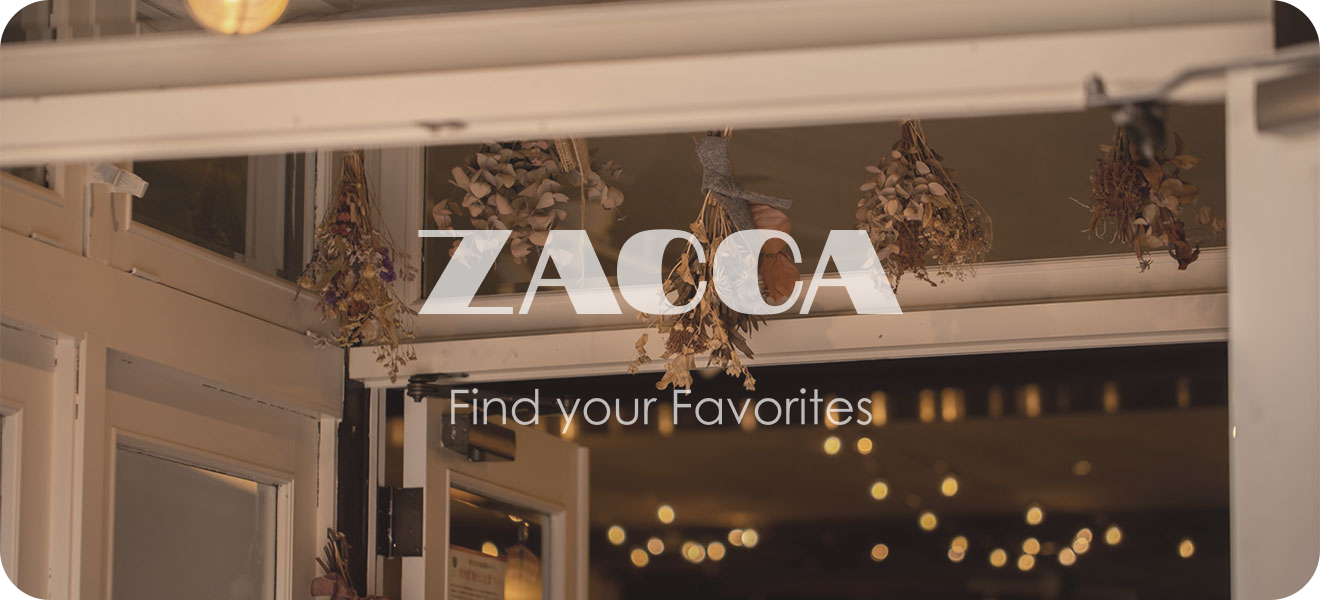
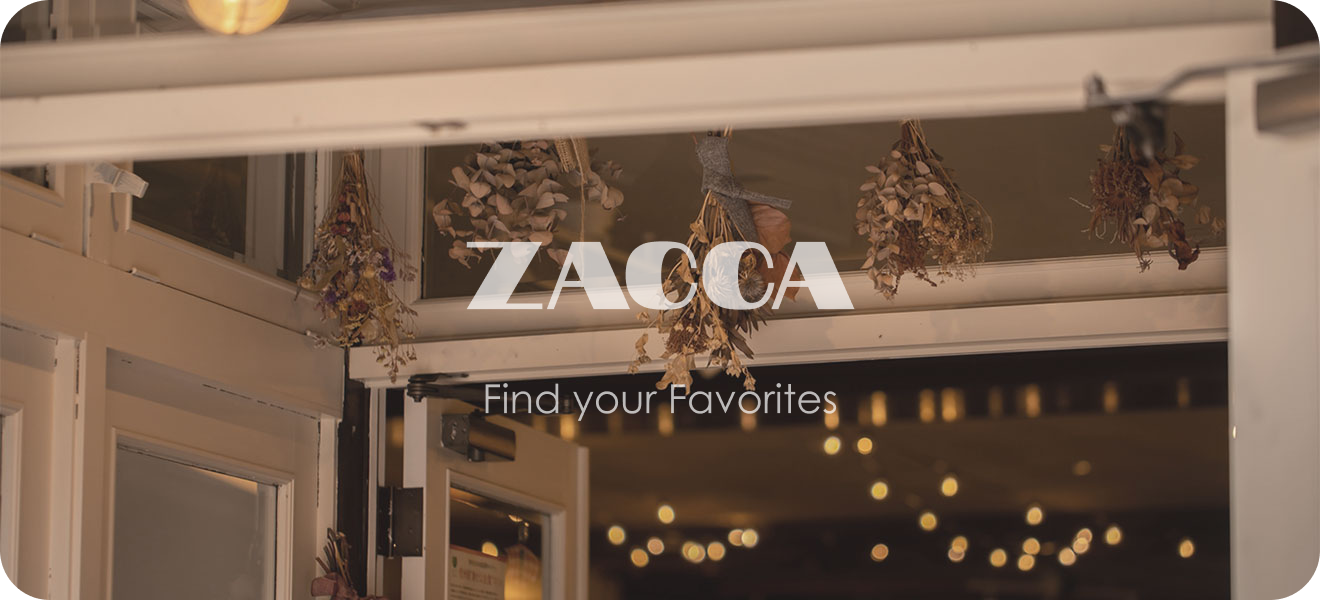
complete footer-pc update MV-pc

Changed region(s): [[0.3106, 0.36, 0.6833, 0.54], [0.3417, 0.63, 0.6833, 0.72]]

diff --git a/index.html b/index.html
@@ -136,33 +136,35 @@
     
     <footer class="footer">
         <div class="footer-content">
-            <div class="footer-left">
-                <div class="footer-logo">
-                    <img src="./img/Logo-footer.svg" alt="Logo">
-                    <p>Find your Favorites</p>
+            <div class="footer-upper">
+                <div class="footer-left">
+                    <div class="footer-logo">
+                        <img src="./img/Logo-footer.svg" alt="Logo">
+                        <p>Find your Favorites</p>
+                    </div>
+                    <nav class="sns">   
+                        <ul class="nav-sns">
+                            <li><a href=""><i class="fa-brands fa-instagram"></i></a></li>
+                            <li><a href=""><img class="sns-x" src="./img/Xsvg.svg" alt=""></a></li>
+                        </ul>
+                    </nav>
                 </div>
-                <nav class="sns">   
-                    <ul class="nav-sns">
-                        <li><a href=""><i class="fa-brands fa-instagram"></i></a></li>
-                        <li><a href=""><img class="sns-x" src="./img/Xsvg.svg" alt=""></a></li>
-                    </ul>
-                </nav>
-            </div>
-        
+            
 
-            <div class="footer-right">
-                <ul class="footer-right-1">
-                    <li><a href="">ホーム</a></li>
-                    <li><a href="">マイページ</a></li>
-                    <li><a href="">商品一覧</a></li>
-                    <li><a href="">お知らせ</a></li>
-                </ul>
-                <ul class="footer-right-2">
-                    <li><a href="">お買い物ガイド</a></li>
-                    <li><a href="">お問い合わせ</a></li>
-                    <li><a href="">会社概要</a></li>
-                    <li><a href="">Privacy Polisy</a></li>
-                </ul>
+                <div class="footer-right">
+                    <ul class="footer-right-1">
+                        <li><a href="">ホーム</a></li>
+                        <li><a href="">マイページ</a></li>
+                        <li><a href="">商品一覧</a></li>
+                        <li><a href="">お知らせ</a></li>
+                    </ul>
+                    <ul class="footer-right-2">
+                        <li><a href="">お買い物ガイド</a></li>
+                        <li><a href="">お問い合わせ</a></li>
+                        <li><a href="">会社概要</a></li>
+                        <li><a href="">Privacy Polisy</a></li>
+                    </ul>
+                </div>
             </div>
 
             <div class="copy">

diff --git a/css/pc.css b/css/pc.css
@@ -69,6 +69,89 @@
         width:98%;
     }
 
+    /* Main */
+
+    .MV {
+        margin-top:160px;
+    }
+
+    /* Footer */
+    .footer-upper {
+        display:flex;
+        justify-content: space-between;
+        width:100%;
+        margin-bottom:48px;
+    }
+
+    .footer-content {
+        padding: 72px 0 48px;
+        width:84%;
+        margin:auto;
+    }
+
+    .footer-left {
+        text-align:left;
+    }
+
+    .footer-logo img {
+        height:32px;
+    }
+
+    .footer-logo p{
+        font-size:18px;
+        margin-top:12px;
+    }
+
+    .footer-logo {
+        margin-bottom:32px;
+    }
+
+    .sns i{
+        font-size:32px;
+    }
+
+    .sns img {
+        height: 30px;
+    }
+
+    .nav-sns {
+        margin-left:0;
+    }
+
+    .nav-sns li+li {
+        margin-left: 20px;
+    }
+
+    .footer-right {
+        margin:0;
+    }
+
+    .footer-right a{
+        font-size:18px;
+    }
+
+    .footer-right li+li {
+        margin-top:18px;
+    }
+     .footer-right-1 {
+        margin-right: 72px;
+    }
+
+    .copy {
+        text-align:left;
+    }
+
+    .copy p {
+        font-size:14px;
+    }
+
+
+
+
+
+
+    
+
     
 
 

diff --git a/css/style.css b/css/style.css
@@ -158,7 +158,6 @@ header:after{
 }
 
 .footer-left{
-    margin:0 auto;
     text-align:center;
 }
 
